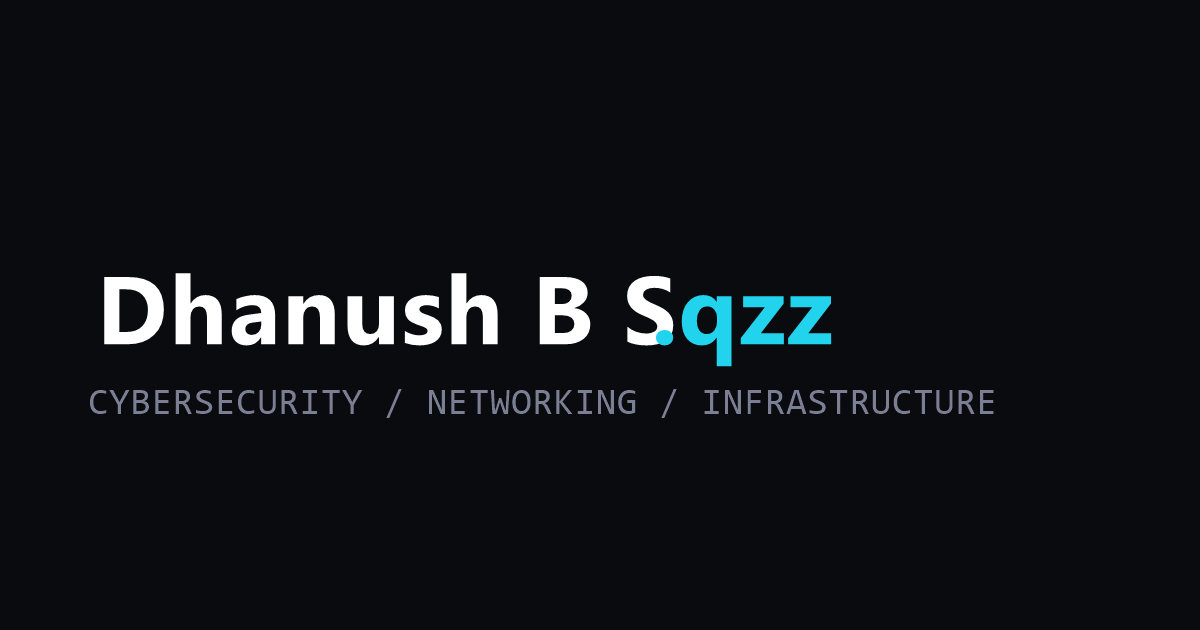
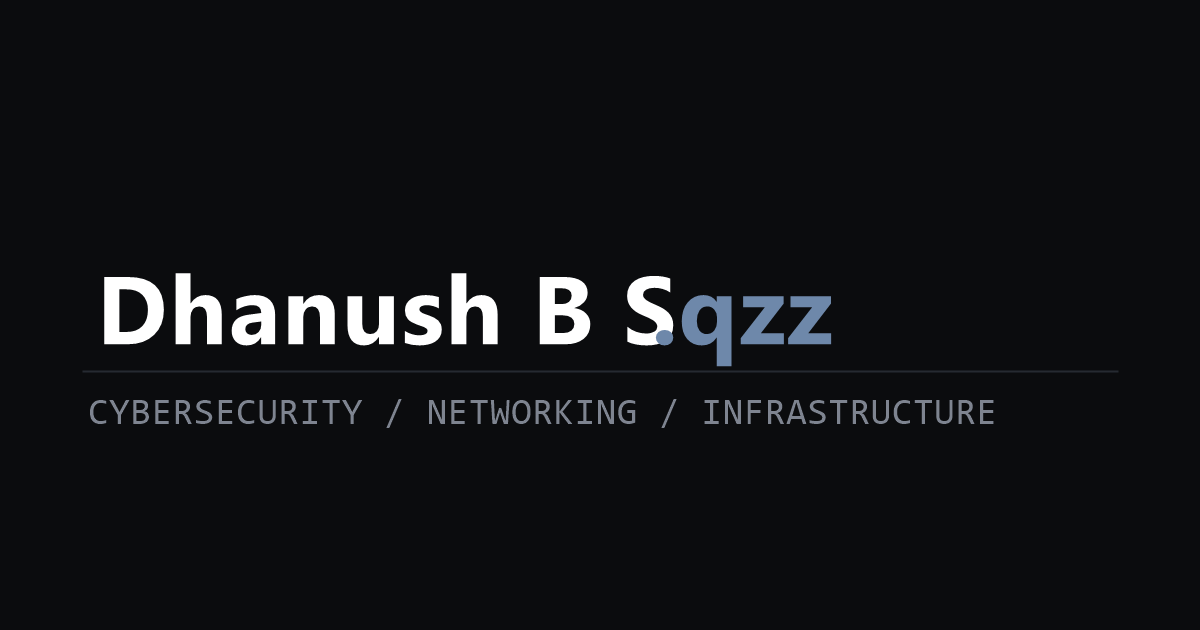
design: monochrome steel palette, drop neon/glow vibes
- Rework design tokens: neutral graphite surfaces, slate-steel accent, muted status colors, neutral shadows
- WebGL threads + hero shader from neon blue/purple to steel strands, background blobs and scroll stops toned down
- Fix filter pill contrast (text-surface-base), regenerate OG image with steel accent

Changed region(s): [[0.0617, 0.4524, 0.8325, 0.6937]]

diff --git a/src/app/globals.css b/src/app/globals.css
@@ -2,45 +2,45 @@
 
 /* ============================================================
    DESIGN SYSTEM — "Structured Signal"
-   Dark-mode-first. Network/circuit-inspired aesthetic.
+   Dark-mode-first. Monochrome steel, network/circuit-inspired.
    ============================================================ */
 
 /* ---- PRIMITIVE TOKENS ---- */
 :root {
-  /* --- Surfaces (near-black, NOT pure #000) --- */
-  --surface-base: #0a0b0f;
-  --surface-raised: #12131a;
-  --surface-overlay: #1a1b24;
-  --surface-sunken: #06070a;
+  /* --- Surfaces (neutral graphite, near-black) --- */
+  --surface-base: #0b0c0e;
+  --surface-raised: #111317;
+  --surface-overlay: #171a1f;
+  --surface-sunken: #060708;
 
-  /* --- Structure accent (desaturated steel / graphite blue) --- */
-  --accent-structure: 215 28% 42%;
-  --accent-structure-light: 215 25% 55%;
-  --accent-structure-muted: 215 20% 28%;
+  /* --- Structure accent (desaturated slate-steel) --- */
+  --accent-structure: 215 15% 46%;
+  --accent-structure-light: 215 14% 60%;
+  --accent-structure-muted: 215 12% 30%;
 
-  /* --- Interactive accent (saturated cyan-blue — for focus/highlight) --- */
-  --color-thread-1: 195 100% 50%;   /* accent-interactive (cyan) */
-  --color-thread-2: 215 28% 42%;    /* accent-structure (steel) */
-  --color-thread-3: 195 100% 95%;   /* near-white with cyan warmth */
-  --accent-interactive: 195 100% 50%;
-  --accent-interactive-hover: 195 100% 60%;
-  --accent-interactive-glow: 195 100% 50%;
+  /* --- Interactive accent (monochrome steel, links/focus only) --- */
+  --color-thread-1: 214 26% 55%;   /* primary strand: steel */
+  --color-thread-2: 215 14% 36%;   /* deep strand: slate */
+  --color-thread-3: 220 16% 94%;   /* bright core: near-white */
+  --accent-interactive: 214 26% 55%;
+  --accent-interactive-hover: 214 30% 66%;
+  --accent-interactive-glow: 214 26% 55%;
 
-  /* --- Text (monochrome with cool undertone) --- */
-  --text-primary: #e8eaf0;
-  --text-secondary: #9499aa;
-  --text-tertiary: #7a7f94;
-  --text-inverse: #0a0b0f;
+  /* --- Text (neutral slate) --- */
+  --text-primary: #eceef2;
+  --text-secondary: #a4a9b1;
+  --text-tertiary: #7e8490;
+  --text-inverse: #0b0c0e;
 
   /* --- Borders --- */
-  --border-subtle: #1e1f2a;
-  --border-default: #2a2c3a;
+  --border-subtle: #1c1f24;
+  --border-default: #262a31;
   --border-accent: var(--accent-structure);
 
-  /* --- Status --- */
-  --success: 142 76% 46%;
-  --warning: 38 92% 55%;
-  --error: 0 84% 60%;
+  /* --- Status (muted for restraint) --- */
+  --success: 150 42% 46%;
+  --warning: 36 68% 52%;
+  --error: 5 52% 56%;
 
   /* --- Semantic layer (shadcn-compatible mapping) --- */
   --background: var(--surface-base);
@@ -81,11 +81,11 @@
   --duration-slow: 400ms;
   --duration-slower: 600ms;
 
-  /* --- Shadows --- */
+  /* --- Shadows (neutral, no colored glow) --- */
   --shadow-sm: 0 1px 2px 0 rgb(0 0 0 / 0.4);
   --shadow-md: 0 4px 12px -2px rgb(0 0 0 / 0.5);
   --shadow-lg: 0 12px 32px -8px rgb(0 0 0 / 0.6);
-  --shadow-glow: 0 0 24px -4px hsl(var(--accent-interactive) / 0.3);
+  --shadow-glow: 0 18px 40px -16px rgb(0 0 0 / 0.65);
 
   /* --- Z-index --- */
   --z-nav: 100;

diff --git a/src/components/sections/HeroBackground.tsx b/src/components/sections/HeroBackground.tsx
@@ -55,9 +55,9 @@ export default function HeroBackground() {
   const [mode, setMode] = useState<Mode>('loading');
   const [isMobile, setIsMobile] = useState(false);
   const [colors, setColors] = useState({
-    c1: '#5227FF',
-    c2: '#FF9FFC',
-    c3: '#FFFFFF',
+    c1: '#6E88AA',
+    c2: '#4F5A69',
+    c3: '#EDEFF2',
   });
 
   useEffect(() => {
@@ -67,9 +67,9 @@ export default function HeroBackground() {
     const mobile = window.matchMedia('(max-width: 768px)').matches;
     setIsMobile(mobile);
     setColors({
-      c1: resolveCssColor('--color-thread-1', '#5227FF'),
-      c2: resolveCssColor('--color-thread-2', '#FF9FFC'),
-      c3: resolveCssColor('--color-thread-3', '#FFFFFF'),
+      c1: resolveCssColor('--color-thread-1', '#6E88AA'),
+      c2: resolveCssColor('--color-thread-2', '#4F5A69'),
+      c3: resolveCssColor('--color-thread-3', '#EDEFF2'),
     });
     setMode(reducedMotion || !supportsWebGL2() ? 'static' : 'animated');
   }, []);

diff --git a/src/components/PageBackground.tsx b/src/components/PageBackground.tsx
@@ -20,7 +20,7 @@ export default function PageBackground() {
         // Scroll progress 0 to 1 over 3000px of scroll
         const progress = Math.min(y / 3000, 1);
         const centerY = 30 + progress * 25; // 30% → 55%
-        el.style.background = `radial-gradient(ellipse 70% 60% at 50% ${centerY}%, rgba(6,182,212,0.06) 0%, transparent 70%)`;
+        el.style.background = `radial-gradient(ellipse 70% 60% at 50% ${centerY}%, rgba(139,151,167,0.06) 0%, transparent 70%)`;
         prevY = y;
       }
       raf = requestAnimationFrame(update);
@@ -50,7 +50,7 @@ export default function PageBackground() {
         className="absolute inset-0"
         style={{
           background:
-            'radial-gradient(ellipse 50% 40% at 80% 70%, rgba(6,182,212,0.03) 0%, transparent 60%)',
+            'radial-gradient(ellipse 50% 40% at 80% 70%, rgba(139,151,167,0.03) 0%, transparent 60%)',
         }}
       />
     </div>

diff --git a/src/components/projects/ProjectsClientGrid.tsx b/src/components/projects/ProjectsClientGrid.tsx
@@ -42,7 +42,7 @@ export function ProjectsClientGrid({
               onClick={() => setFilter(s)}
               className={`px-3 py-1 rounded font-mono text-xs tracking-wide transition-colors border ${
                 filter === s
-                  ? "bg-accent-interactive text-bg-primary border-accent-interactive"
+                  ? "bg-accent-interactive text-surface-base border-accent-interactive"
                   : "bg-surface-overlay text-text-secondary border-border-subtle hover:border-accent-interactive"
               }`}
             >

diff --git a/src/components/WebThreads.tsx b/src/components/WebThreads.tsx
@@ -155,9 +155,9 @@ type WebThreadsCtx = {
 const ctxMap = new WeakMap<HTMLDivElement, WebThreadsCtx>();
 
 const WebThreads: React.FC<WebThreadsProps> = ({
-  color1 = '#5227FF',
-  color2 = '#FF9FFC',
-  color3 = '#FFFFFF',
+  color1 = '#6E88AA',
+  color2 = '#4F5A69',
+  color3 = '#EDEFF2',
   speed = 0.2,
   threadCount = 6,
   frequency = 5.0,

diff --git a/src/components/shared/ScrollBackground.tsx b/src/components/shared/ScrollBackground.tsx
@@ -17,7 +17,7 @@ export function ScrollBackground() {
   ]);
 
   const gradientB = useTransform(scrollY, [0, 800, 1600], [
-    "hsl(195 100% 12%)",
+    "hsl(214 22% 10%)",
     "hsl(215 28% 5%)",
     "hsl(215 25% 5%)",
   ]);
